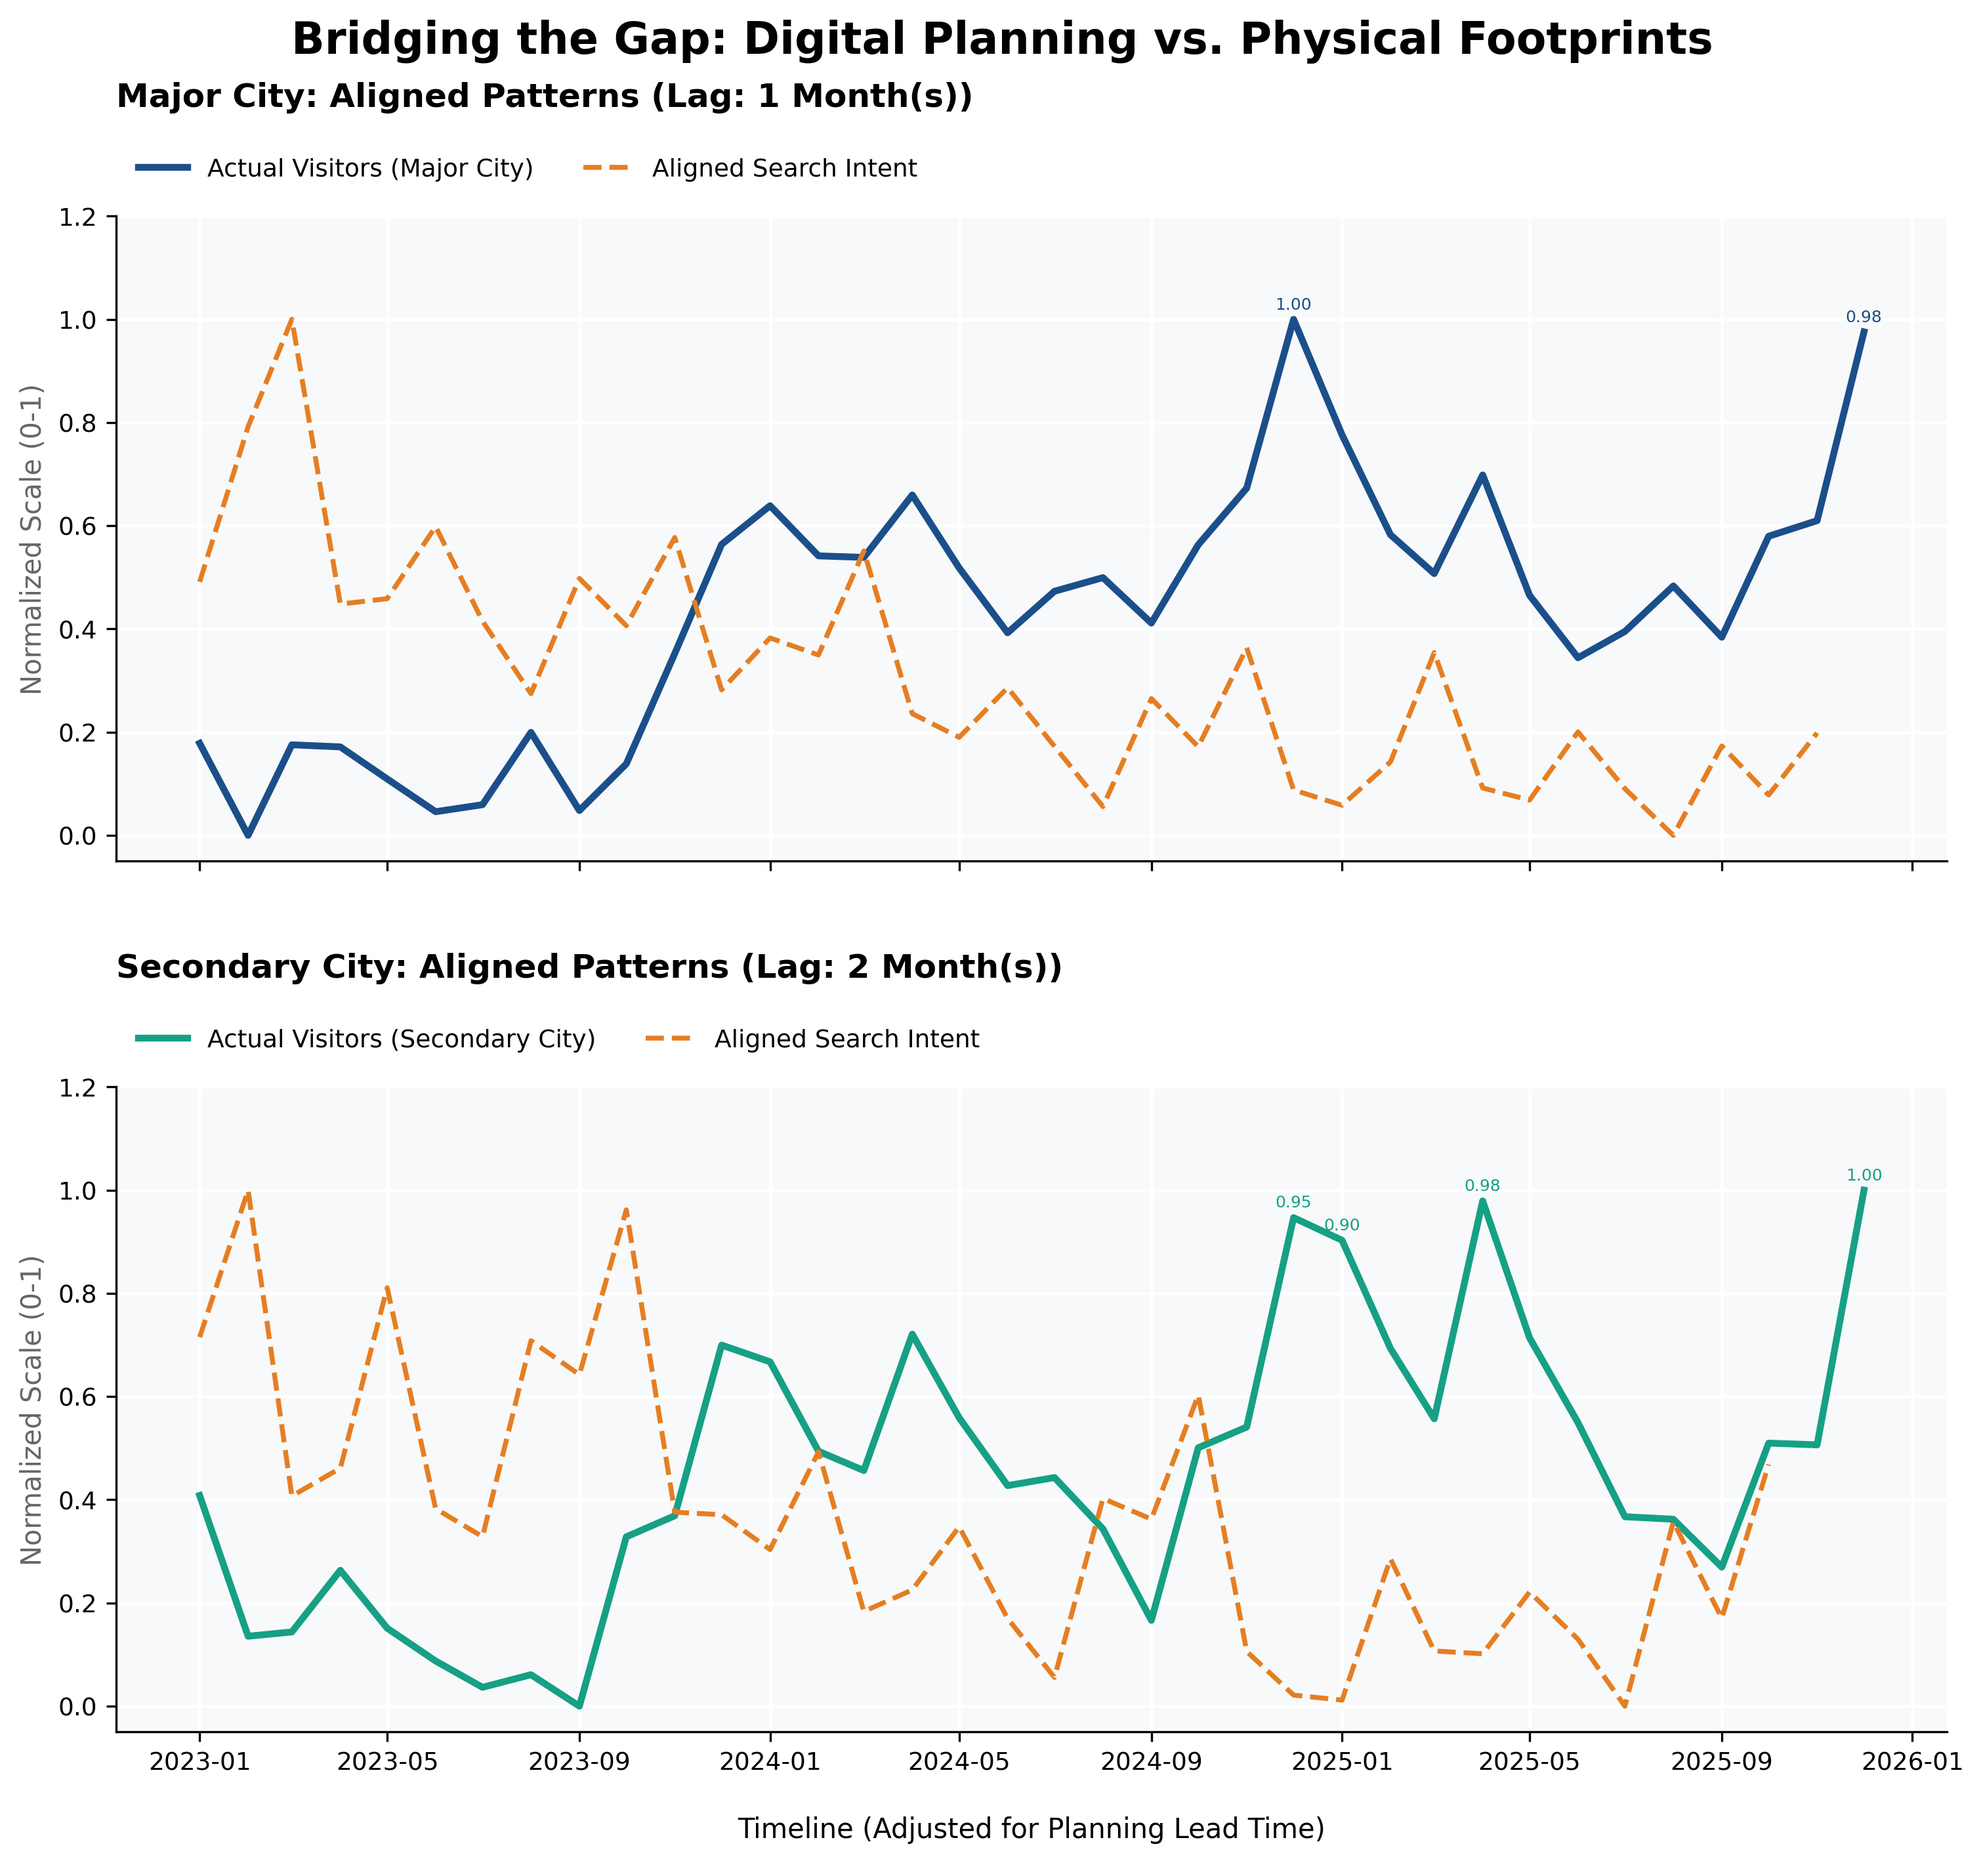
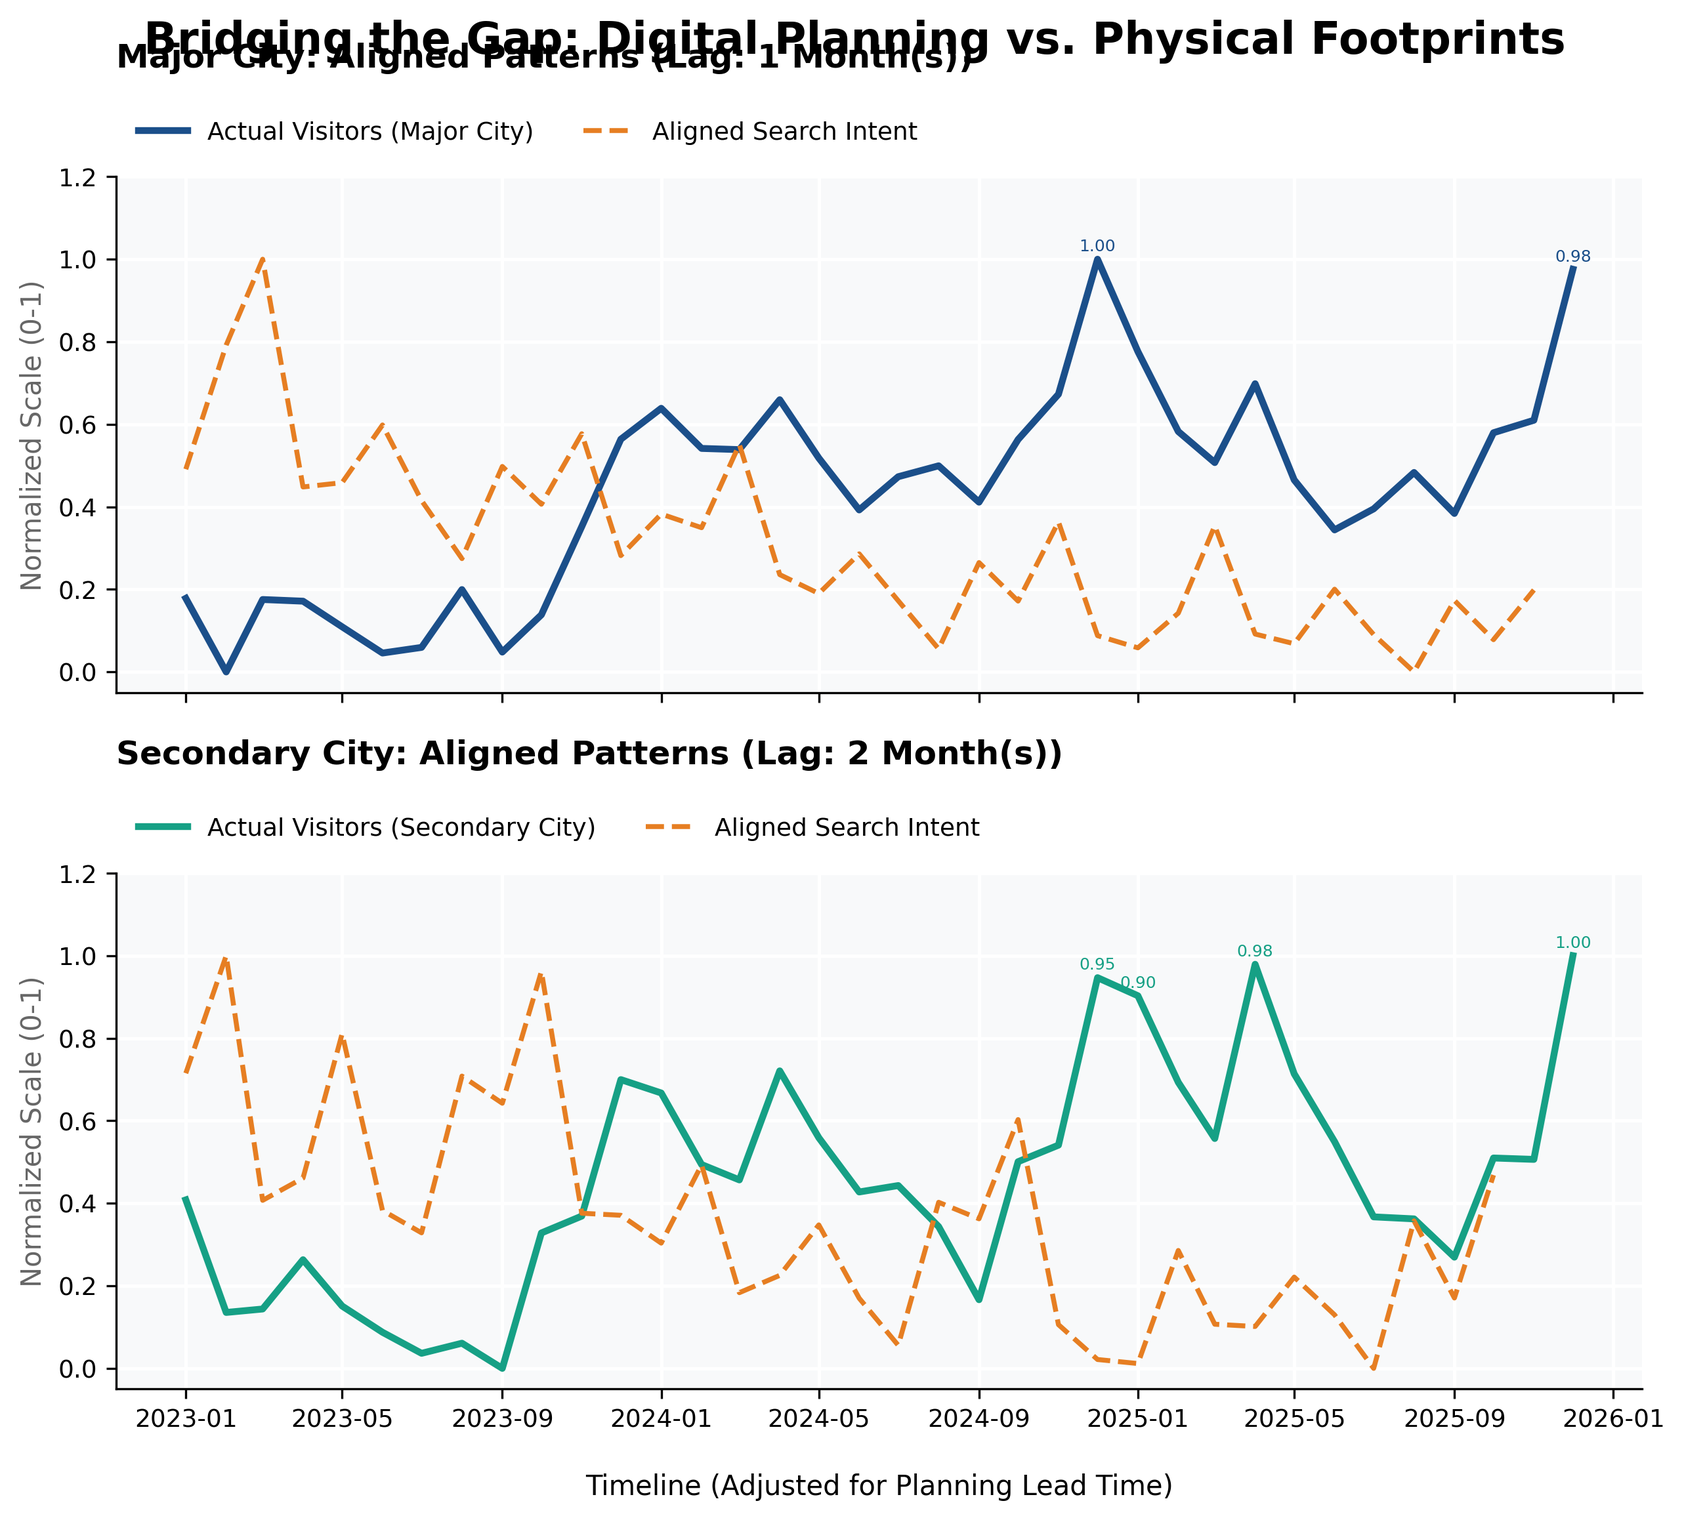
Update visualization scripts and figures

diff --git a/visualizations/03A_Aligned_Clean.png .py b/visualizations/03A_Aligned_Clean.png .py
@@ -39,7 +39,7 @@ def prepare_data(path):
 
 # ─── 3. MAIN VISUALIZATION LOGIC ──────────────────────────────────────────────
 def generate_lag_analysis_plot(df):
-    fig, (ax1, ax2) = plt.subplots(2, 1, figsize=(12, 10), sharex=True, gridspec_kw={'hspace': 0.35})
+    fig, (ax1, ax2) = plt.subplots(2, 1, figsize=(10, 8), sharex=True, gridspec_kw={'hspace': 0.35})
     
     configs = [
         (ax1, 'Major City', -1, COLORS['Major City']),
